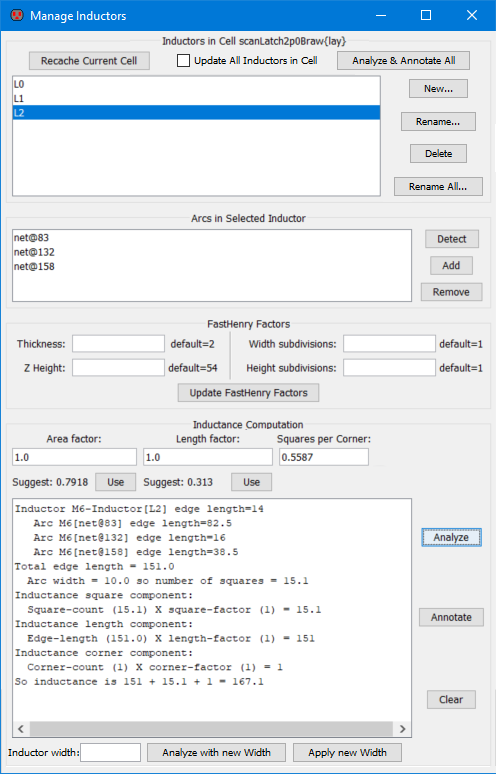
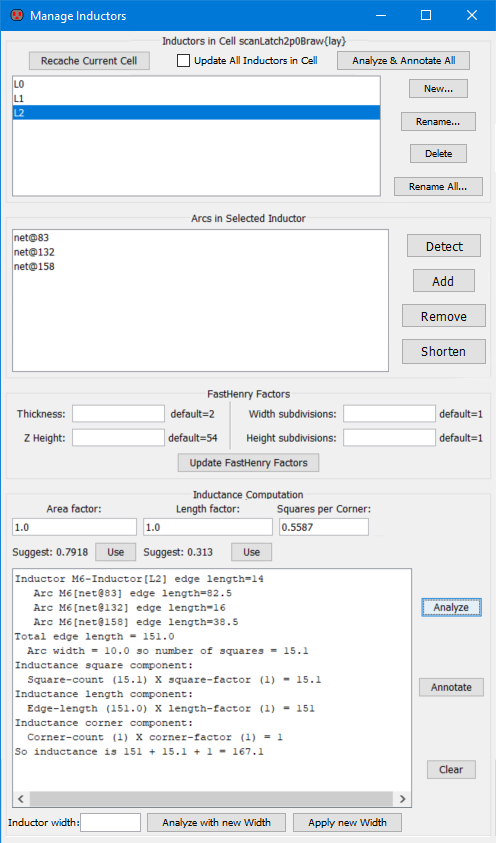
Added "shorten" button to Inductance Management
git-svn-id: svn://svn.savannah.gnu.org/electric/trunk@278 b905213a-9962-419e-bd63-4c908b0646d6

diff --git a/electric/electric-java/com/sun/electric/tool/user/help/helphtml/chap09-14.html b/electric/electric-java/com/sun/electric/tool/user/help/helphtml/chap09-14.html
@@ -14,14 +14,14 @@ Once inductors have been established, you can also write a deck for further anal
 This dialog lets you manage inductors in the current cell.
 If you edit a different cell, click "Recache Current Cell" to see the current cell's inductance information.
 <p>
-<TABLE><TR><TD>
 The top part of the dialog, with the list of inductors in the cell, allows you to
 create new inductor (with the "New..." button). 
 You can rename a single inductor or all of them (the "Rename All..." option prompts for a string with an "*"
 in it and renames every inductor with that pattern, substituting increasing numbers where the "*" is).
 You can also delete inductors, but note that if an inductor is listed because there is an inductor node with that name,
 you cannot delete the inductor in this dialog and must instead delete the inductor node.
-<br><br>
+<p>
+<TABLE><TR><TD>
 The next part of the dialog lists arcs on the selected inductor.
 You can click the "Detect" button to figure out which arcs are connected
 by following the inductor node through the circuit.
@@ -30,6 +30,8 @@ You can also assign arcs manually by selecting them in the circuit and clicking 
 You can remove manually-added arcs from an inductor by selecting them in this dialog and clicking the "Remove" button.
 Note that this dialog cross-probes correctly between the list of arcs and the arcs in the circuit:
 clicking on either shows the other.
+Finally, you can request that all arcs on the inductor be "shortened" (have their end extension removed)
+by clicking the "Shorten" button.
 <br><br>
 The next section of the dialog lets you assign analysis factors for FastHenry.
 FastHenry is an inductance analysis tool (see the papers of <A HREF="http://rleweb.mit.edu/rlestaff/p-whit.htm">Jacob White</A>).
@@ -42,15 +44,14 @@ It uses a formula that depends on the area and length of the inductor
 as well as a corner-turning factor.
 Click the "Analyze" button to show the computation of the current inductance value (and click "Clear" to remove that text).
 Click the "Annotate" button to assign the computed inductance to the inductor node (if there is one).
-<br><br>
+</TD><TD><CENTER><IMG SRC="fig09-06.png" ALT="Figure 9.6"></CENTER></TD></TR></TABLE><br><br>
 The area and length factors may have suggested values, depending on the layer of the inductor.
 Click the "Use" buttons to apply these values.
-<br><br>
+<P>
 You can also click "Update All Inductors in Cell" (at the top of the dialog) to request that the dialog watch all edits
 made to the cell and update all inductance values, doing a "Detect" of the arcs,
 an "Analyze" of the inductance, and an "Annotate" to update the inductor value.
 This operation can also be invoked directly on every inductor in the cell with the "Analyze & Annotate All" button.
-</TD><TD><CENTER><IMG SRC="fig09-06.png" ALT="Figure 9.6"></CENTER></TD></TR></TABLE>
 <P>
 At the very bottom are controls for experimenting with different inductor widths.
 By default, the width is derived from the size of the inductor nodes and the connected arcs,

diff --git a/electric/electric-java/com/sun/electric/tool/user/dialogs/ManageInductors.java b/electric/electric-java/com/sun/electric/tool/user/dialogs/ManageInductors.java
@@ -177,6 +177,7 @@ public class ManageInductors extends EModelessDialog implements /*HighlightListe
 		List<ArcInst> deletedArcs = null;
 		double selectedAreaFactor = 0, selectedLengthFactor = 0;
 		StringBuffer changedExplanation = new StringBuffer();
+		List<String> unshortenedInductors = new ArrayList<String>();
 		for(Iterator<NodeInst> it = cell.getNodes(); it.hasNext(); )
 		{
 			NodeInst ni = it.next();
@@ -185,7 +186,8 @@ public class ManageInductors extends EModelessDialog implements /*HighlightListe
 			{
 				List<ArcInst> arcsOnInductor = new ArrayList<ArcInst>();
 				List<ArcInst> arcsToDelete = new ArrayList<ArcInst>();
-				getArcsOnInductor(ni, ni.getName(), arcsOnInductor, arcsToDelete);
+				if (getArcsOnInductor(ni, ni.getName(), arcsOnInductor, arcsToDelete))
+					unshortenedInductors.add(ni.getName());					
 				StringBuffer sb = new StringBuffer();
 				double areaFactor = defaultAreaFactor;
 				double lengthFactor = defaultLengthFactor;
@@ -264,8 +266,15 @@ public class ManageInductors extends EModelessDialog implements /*HighlightListe
 		}
 		if (brief)
 		{
-			if (changedExplanation.length() == 0) return "Nothing changed in cell " + cell.describe(false);
-			return "Changes in cell " + cell.describe(false) + ":\n" + changedExplanation.toString();
+			String warning = "";
+			if (unshortenedInductors.size() > 0)
+			{
+				warning = "Inductors with unshortened arcs:";
+				for(String indName : unshortenedInductors) warning += " " + indName;
+				warning += "\n";
+			}
+			if (changedExplanation.length() == 0) return warning + "Nothing changed in cell " + cell.describe(false);
+			return warning + "Changes in cell " + cell.describe(false) + ":\n" + changedExplanation.toString();
 		}
 		return null;
 	}
@@ -634,6 +643,25 @@ public class ManageInductors extends EModelessDialog implements /*HighlightListe
 		}
 	}
 
+	/**
+	 * Method called when the "Shorten" button is clicked.
+	 * It shortens all arcs on the selected inductor.
+	 */
+	private void shortenCurrentInductor()
+	{
+		String inductorName = needSelectedInductor();
+		if (inductorName == null) return;
+
+		NodeInst ni = curInductanceData.cell.findNode(inductorName);
+		if (ni == null) return;
+		List<ArcInst> connectedArcs = new ArrayList<ArcInst>();
+		List<ArcInst> disconnectedArcs = new ArrayList<ArcInst>();
+		getArcsOnInductor(ni, inductorName, connectedArcs, disconnectedArcs);
+
+		// shorten all arcs on the inductor
+		(new ShortenArcs(connectedArcs)).startJob();
+	}
+
 	private void showSelected()
 	{
 		makeInductanceDataCurrent();
@@ -698,8 +726,9 @@ public class ManageInductors extends EModelessDialog implements /*HighlightListe
 	 * @param inductorName the name of the inductor node.
 	 * @param arcsToAdd a List that gets filled with ArcInst objects on the inductor.
 	 * @param arcsToDelete a List that gets filled with ArcInst objects no longer on the inductor.
+	 * @return true if the inductor has un-shortened arcs.
 	 */
-	private void getArcsOnInductor(NodeInst ni, String inductorName, List<ArcInst> arcsToAdd, List<ArcInst> arcsToDelete)
+	private boolean getArcsOnInductor(NodeInst ni, String inductorName, List<ArcInst> arcsToAdd, List<ArcInst> arcsToDelete)
 	{
 		// determine arc type that matters
 		double inductorSize = ni.getYSize();
@@ -739,13 +768,19 @@ public class ManageInductors extends EModelessDialog implements /*HighlightListe
 		// figure out which arcs should no longer be connected
 		Set<ArcInst> connectedArcSet = new HashSet<ArcInst>();
 		for(ArcInst ai : arcsToAdd) connectedArcSet.add(ai);
+		boolean unshortened = false;
 		for(Iterator<ArcInst> aIt = curInductanceData.cell.getArcs(); aIt.hasNext(); )
 		{
 			ArcInst ai = aIt.next();
-			if (connectedArcSet.contains(ai)) continue;
+			if (connectedArcSet.contains(ai))
+			{
+				if (ai.isHeadExtended() || ai.isTailExtended()) unshortened = true;
+				continue;
+			}
 			Variable var = ai.getVar(Schematics.INDUCTOR_NAME);
 			if (var != null && var.getPureValue(-1).equals(inductorName)) arcsToDelete.add(ai);
 		}
+		return unshortened;
 	}
 
 	/**
@@ -1298,6 +1333,31 @@ public class ManageInductors extends EModelessDialog implements /*HighlightListe
 	}
 
 	/**
+	 * This class finishes the "Shorten" function by shortening arcs on an inductor.
+	 */
+	public static class ShortenArcs extends Job
+	{
+		private List<ArcInst> connectedArcs;
+
+		public ShortenArcs(List<ArcInst> arcs)
+		{
+			super("Shorten Arcs", User.getUserTool(), Job.Type.CHANGE, null, null, Job.Priority.USER);
+			connectedArcs = arcs;
+		}
+
+		@Override
+		public boolean doIt() throws JobException
+		{
+			for(ArcInst ai : connectedArcs)
+			{
+				ai.setHeadExtended(false);
+				ai.setTailExtended(false);
+			}
+			return true;
+		}
+	}
+
+	/**
 	 * Method to get the name of the selected inductor in the top list.
 	 * Displays an error message if there is none.
 	 * @return the current inductor name (null if none selected).
@@ -1373,6 +1433,7 @@ public class ManageInductors extends EModelessDialog implements /*HighlightListe
         addArcToInductor = new javax.swing.JButton();
         removeArcFromInductor = new javax.swing.JButton();
         detectArcsOnInductor = new javax.swing.JButton();
+        shortenArcs = new javax.swing.JButton();
         jPanel2 = new javax.swing.JPanel();
         jLabel3 = new javax.swing.JLabel();
         jLabel4 = new javax.swing.JLabel();
@@ -1400,7 +1461,7 @@ public class ManageInductors extends EModelessDialog implements /*HighlightListe
         });
         getContentPane().setLayout(new java.awt.GridBagLayout());
 
-        jPanel1.setBorder(javax.swing.BorderFactory.createTitledBorder(null, "Inductance Computation", javax.swing.border.TitledBorder.CENTER, javax.swing.border.TitledBorder.DEFAULT_POSITION));
+        jPanel1.setBorder(javax.swing.BorderFactory.createTitledBorder("Inductance Computation"));
         jPanel1.setLayout(new java.awt.GridBagLayout());
 
         analyzeInductor.setText("Analyze");
@@ -1615,7 +1676,7 @@ public class ManageInductors extends EModelessDialog implements /*HighlightListe
         gridBagConstraints.insets = new java.awt.Insets(4, 4, 4, 4);
         getContentPane().add(jPanel1, gridBagConstraints);
 
-        inductorListPanel.setBorder(javax.swing.BorderFactory.createTitledBorder(null, "Inductors in Cell", javax.swing.border.TitledBorder.CENTER, javax.swing.border.TitledBorder.DEFAULT_POSITION));
+        inductorListPanel.setBorder(javax.swing.BorderFactory.createTitledBorder("Inductors in Cell"));
         inductorListPanel.setLayout(new java.awt.GridBagLayout());
 
         listOfInductors.setModel(new javax.swing.AbstractListModel<String>()
@@ -1746,7 +1807,7 @@ public class ManageInductors extends EModelessDialog implements /*HighlightListe
         gridBagConstraints.insets = new java.awt.Insets(4, 4, 4, 4);
         getContentPane().add(inductorListPanel, gridBagConstraints);
 
-        jPanel3.setBorder(javax.swing.BorderFactory.createTitledBorder(null, "Arcs in Selected Inductor", javax.swing.border.TitledBorder.CENTER, javax.swing.border.TitledBorder.DEFAULT_POSITION));
+        jPanel3.setBorder(javax.swing.BorderFactory.createTitledBorder("Arcs in Selected Inductor"));
         jPanel3.setLayout(new java.awt.GridBagLayout());
 
         listOfArcsOnInductor.setModel(new javax.swing.AbstractListModel<String>()
@@ -1760,7 +1821,7 @@ public class ManageInductors extends EModelessDialog implements /*HighlightListe
         gridBagConstraints = new java.awt.GridBagConstraints();
         gridBagConstraints.gridx = 0;
         gridBagConstraints.gridy = 0;
-        gridBagConstraints.gridheight = 3;
+        gridBagConstraints.gridheight = 4;
         gridBagConstraints.fill = java.awt.GridBagConstraints.BOTH;
         gridBagConstraints.weightx = 0.6;
         gridBagConstraints.weighty = 1.0;
@@ -1812,6 +1873,20 @@ public class ManageInductors extends EModelessDialog implements /*HighlightListe
         gridBagConstraints.insets = new java.awt.Insets(4, 4, 4, 4);
         jPanel3.add(detectArcsOnInductor, gridBagConstraints);
 
+        shortenArcs.setText("Shorten");
+        shortenArcs.addActionListener(new java.awt.event.ActionListener()
+        {
+            public void actionPerformed(java.awt.event.ActionEvent evt)
+            {
+                shortenArcsActionPerformed(evt);
+            }
+        });
+        gridBagConstraints = new java.awt.GridBagConstraints();
+        gridBagConstraints.gridx = 1;
+        gridBagConstraints.gridy = 3;
+        gridBagConstraints.insets = new java.awt.Insets(4, 4, 4, 4);
+        jPanel3.add(shortenArcs, gridBagConstraints);
+
         gridBagConstraints = new java.awt.GridBagConstraints();
         gridBagConstraints.gridx = 0;
         gridBagConstraints.gridy = 1;
@@ -1821,7 +1896,7 @@ public class ManageInductors extends EModelessDialog implements /*HighlightListe
         gridBagConstraints.insets = new java.awt.Insets(4, 4, 4, 4);
         getContentPane().add(jPanel3, gridBagConstraints);
 
-        jPanel2.setBorder(javax.swing.BorderFactory.createTitledBorder(null, "FastHenry Factors", javax.swing.border.TitledBorder.CENTER, javax.swing.border.TitledBorder.DEFAULT_POSITION));
+        jPanel2.setBorder(javax.swing.BorderFactory.createTitledBorder("FastHenry Factors"));
         jPanel2.setLayout(new java.awt.GridBagLayout());
 
         jLabel3.setText("Thickness:");
@@ -2039,6 +2114,11 @@ public class ManageInductors extends EModelessDialog implements /*HighlightListe
     	renameAllInductors();
     }//GEN-LAST:event_renameAllInductorsActionPerformed
 
+    private void shortenArcsActionPerformed(java.awt.event.ActionEvent evt)//GEN-FIRST:event_shortenArcsActionPerformed
+    {//GEN-HEADEREND:event_shortenArcsActionPerformed
+        shortenCurrentInductor();
+    }//GEN-LAST:event_shortenArcsActionPerformed
+
     // Variables declaration - do not modify//GEN-BEGIN:variables
     private javax.swing.JButton addArcToInductor;
     private javax.swing.JButton addInductor;
@@ -2087,6 +2167,7 @@ public class ManageInductors extends EModelessDialog implements /*HighlightListe
     private javax.swing.JButton removeArcFromInductor;
     private javax.swing.JButton renameAllInductors;
     private javax.swing.JButton renameInductor;
+    private javax.swing.JButton shortenArcs;
     private javax.swing.JCheckBox stayCurrent;
     private javax.swing.JButton updateFasthenryData;
     private javax.swing.JButton useAreaFactor;
